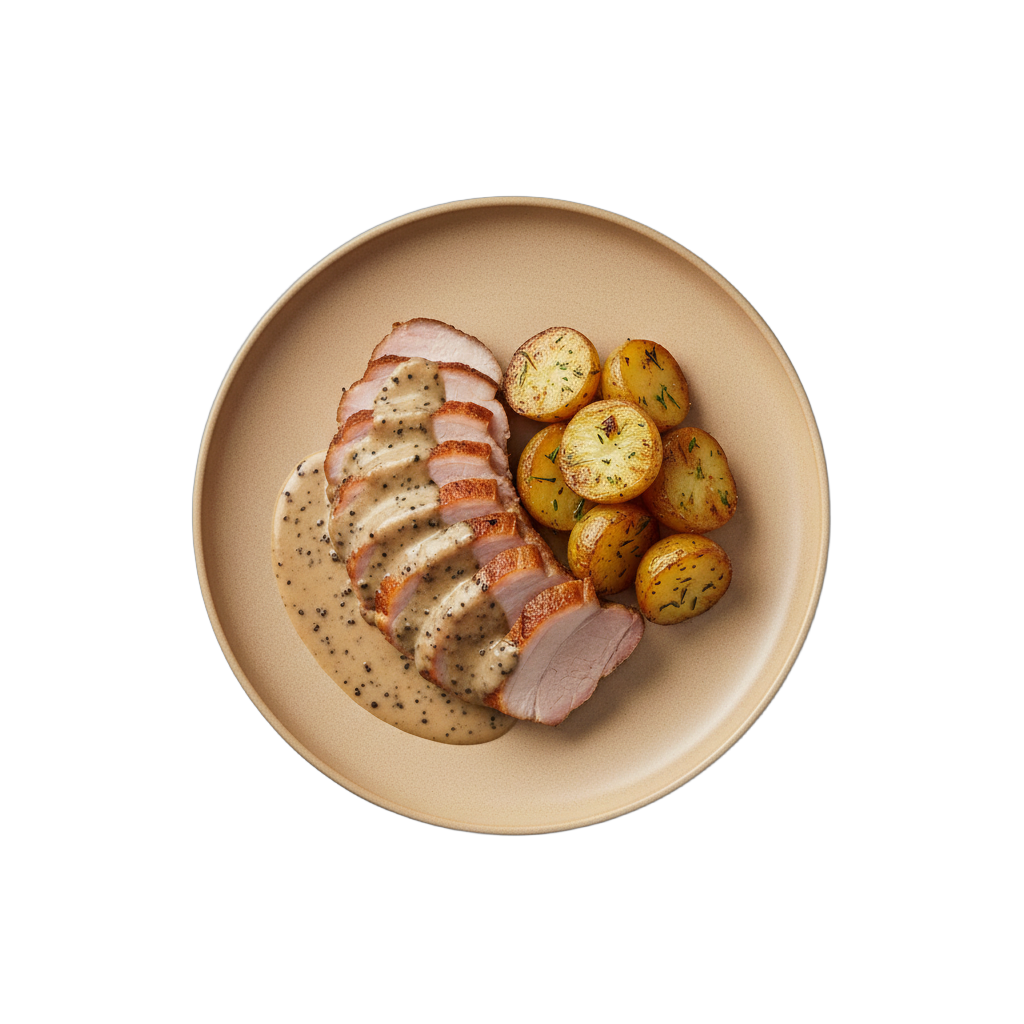
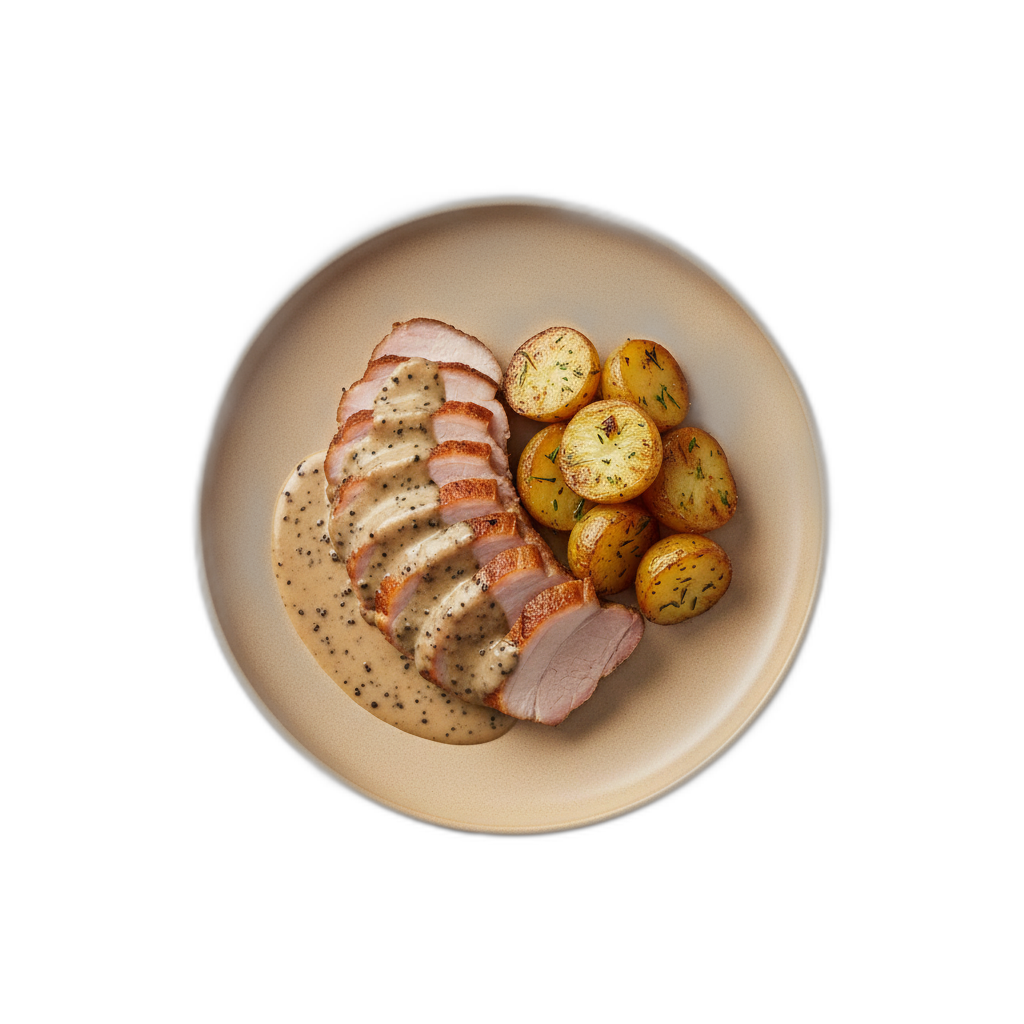
Switch to V3 image generation with beige plates and fix image slugs
- Update CANTEEN_IMAGE_SLUGS to match V3 filenames (eat_the_street, fresh4you, flow)
- Switch workflow and local script from V2 to V3 (--grey --force)
- Update review-images.js prompt to use beige plate + grey background style
- Add all V3-generated images (15 raw + 15 background-removed)
- Switch from next/image to img tag for instant day switching

diff --git a/generate-images-v3.js b/generate-images-v3.js
@@ -1,0 +1,202 @@
+#!/usr/bin/env node
+/**
+ * V3: OVERHEAD VIEW + TRANSPARENT BACKGROUND
+ * Most consistent approach - eliminates angle variation
+ */
+
+const fs = require('fs');
+const path = require('path');
+const { GoogleGenAI } = require('@google/genai');
+
+const GEMINI_API_KEY = process.env.GEMINI_API_KEY;
+if (!GEMINI_API_KEY) { console.error('❌ GEMINI_API_KEY required'); process.exit(1); }
+const ai = new GoogleGenAI({ apiKey: GEMINI_API_KEY });
+
+const DAY_ORDER = ['monday', 'tuesday', 'wednesday', 'thursday', 'friday'];
+
+/**
+ * OVERHEAD VIEW STRATEGY:
+ * - 90° top-down = most consistent angle across all AI generations
+ * - Transparent background = no post-processing needed
+ * - White plate with full rim visible = clean, professional look
+ */
+const OVERHEAD_TRANSPARENT_PROMPT = (dishName) =>
+`Professional overhead food photography of "${dishName}".
+
+STRICT TECHNICAL SPECIFICATIONS:
+━━━━━━━━━━━━━━━━━━━━━━━━━━━━━━━━━━━━━━━
+Camera & Composition:
+- Angle: Overhead shot, camera at 90° directly above plate
+- Framing: Plate perfectly centered, complete rim visible
+- Size: Food covers 60-70% of plate surface (realistic portion)
+- Format: Square 1:1 ratio, 1024x1024px
+
+Plate & Styling:
+- Plate: Round white ceramic dinner plate (10-11 inches)
+- Plating: Professional restaurant presentation
+- Lighting: Soft diffused overhead light, minimal shadows
+- Quality: Sharp, photorealistic, high detail
+
+Background & Format:
+- Background: COMPLETELY TRANSPARENT (alpha channel/no background)
+- Output: PNG with transparency
+- ONLY visible elements: white plate + food
+
+Strict Exclusions:
+- NO table surface or texture visible
+- NO utensils, napkins, garnishes outside plate
+- NO hands, people, or decorative elements
+- NO text, watermarks, labels
+- NO angled views or perspective
+
+Style: Minimalist Scandinavian food photography, clean and professional.`;
+
+/**
+ * GREY BACKGROUND FALLBACK (if transparent doesn't work well)
+ */
+const OVERHEAD_GREY_PROMPT = (dishName) =>
+`Professional overhead food photography of "${dishName}".
+
+STRICT TECHNICAL SPECIFICATIONS:
+━━━━━━━━━━━━━━━━━━━━━━━━━━━━━━━━━━━━━━━
+Camera & Composition:
+- Angle: Overhead shot, camera at 90° directly above plate
+- Framing: Plate perfectly centered, complete rim visible
+- Size: Food covers 60-70% of plate surface
+- Format: Square 1:1 ratio, 1024x1024px
+
+Plate & Styling:
+- Plate: Round BEIGE/CREAM ceramic dinner plate (warm off-white color #F5E6D3)
+- CRITICAL: Plate MUST be beige/cream colored, NOT pure white
+- Plating: Professional restaurant presentation
+- Lighting: Soft diffused overhead light, minimal shadows
+- Quality: Sharp, photorealistic, high detail
+
+Background:
+- Background: Solid neutral grey (#C0C0C0) seamless backdrop
+- MUST be uniform grey color (no gradients, textures, shadows)
+- ONLY visible elements: grey background + beige/cream plate + food
+
+Strict Exclusions:
+- NO white plates (use beige/cream only)
+- NO table surface or wood grain
+- NO utensils, napkins, garnishes outside plate
+- NO hands, people, or decorative elements
+- NO text, watermarks, labels
+- NO angled views or perspective
+
+Style: Minimalist Scandinavian food photography, clean and professional.`;
+
+async function generateImage(dishName, canteenName, style = 'transparent') {
+    const prompt = style === 'grey'
+        ? OVERHEAD_GREY_PROMPT(dishName)
+        : OVERHEAD_TRANSPARENT_PROMPT(dishName);
+
+    const displayName = dishName.substring(0, 45);
+    console.log(`  📸 ${canteenName}: ${displayName}...`);
+
+    try {
+        const response = await ai.models.generateContent({
+            model: 'gemini-2.5-flash-image',
+            contents: prompt,
+            config: {
+                responseModalities: ['Text', 'Image'],
+            },
+        });
+
+        for (const part of response.candidates[0].content.parts) {
+            if (part.inlineData) {
+                return Buffer.from(part.inlineData.data, 'base64');
+            }
+        }
+        return null;
+    } catch (error) {
+        console.error(`  ❌ Error: ${error.message}`);
+        return null;
+    }
+}
+
+async function main() {
+    const args = process.argv.slice(2);
+    const style = args.includes('--grey') ? 'grey' : 'transparent';
+    const forceRegen = args.includes('--force');
+
+    console.log('╔══════════════════════════════════════════════════════════╗');
+    console.log('║  IMAGE GENERATION V3 - OVERHEAD VIEW APPROACH           ║');
+    console.log('╚══════════════════════════════════════════════════════════╝');
+    console.log(`\n📐 View: Overhead (90° top-down)`);
+    console.log(`🎨 Background: ${style === 'grey' ? 'Grey (remove later)' : 'Transparent (direct)'}`);
+    console.log(`🔄 Force regenerate: ${forceRegen ? 'YES' : 'NO'}\n`);
+    console.log('═'.repeat(60));
+
+    const menuData = JSON.parse(fs.readFileSync(path.join(__dirname, 'public', 'menu.json'), 'utf8'));
+    const imagesDir = path.join(__dirname, 'public', 'images');
+
+    let generated = 0;
+    let skipped = 0;
+    let failed = 0;
+
+    for (const day of DAY_ORDER) {
+        const dayDir = path.join(imagesDir, day);
+        if (!fs.existsSync(dayDir)) fs.mkdirSync(dayDir, { recursive: true });
+
+        console.log(`\n📅 ${day.toUpperCase()}`);
+        console.log('─'.repeat(60));
+
+        for (const [canteenName, canteen] of Object.entries(menuData.canteens)) {
+            const dayEntry = canteen.menu.find(d => d.day.toLowerCase() === day);
+            if (!dayEntry) continue;
+
+            const items = dayEntry.en?.items || dayEntry.no?.items;
+            if (!items) continue;
+
+            const mainDish = items.find(i => i.isMain);
+            if (!mainDish) continue;
+
+            const filename = canteenName.toLowerCase().replace(/\s+/g, '_') + '.png';
+            const filepath = path.join(dayDir, filename);
+
+            if (fs.existsSync(filepath) && !forceRegen) {
+                console.log(`  ⏭  ${canteenName}: Already exists (use --force to regenerate)`);
+                skipped++;
+                continue;
+            }
+
+            const buffer = await generateImage(mainDish.dish, canteenName, style);
+
+            if (buffer) {
+                fs.writeFileSync(filepath, buffer);
+                const sizeKB = Math.round(buffer.length / 1024);
+                console.log(`  ✅ ${canteenName}: Saved (${sizeKB}KB)`);
+                generated++;
+            } else {
+                console.log(`  ❌ ${canteenName}: Failed to generate`);
+                failed++;
+            }
+
+            // Rate limiting (avoid API throttling)
+            await new Promise(r => setTimeout(r, 1500));
+        }
+    }
+
+    console.log('\n' + '═'.repeat(60));
+    console.log('📊 GENERATION SUMMARY');
+    console.log('═'.repeat(60));
+    console.log(`✅ Generated:  ${generated} images`);
+    console.log(`⏭  Skipped:    ${skipped} images`);
+    console.log(`❌ Failed:     ${failed} images`);
+    console.log('═'.repeat(60));
+
+    if (style === 'grey') {
+        console.log('\n💡 NEXT STEP:');
+        console.log('   Run: node remove-grey-bg.js');
+        console.log('   To remove grey backgrounds and create transparent versions');
+    } else {
+        console.log('\n✨ Images should already have transparent backgrounds');
+        console.log('   Location: public/images/[day]/[canteen].png');
+        console.log('\n💡 TIP: If backgrounds aren\'t transparent, regenerate with:');
+        console.log('   node generate-images-v3.js --grey --force');
+    }
+}
+
+main().catch(console.error);

diff --git a/review-images.js b/review-images.js
@@ -18,17 +18,36 @@ const DAY_ORDER = ['monday', 'tuesday', 'wednesday', 'thursday', 'friday'];
 const MAX_RETRIES = 2;
 
 const GENERATION_PROMPT = (dishName) =>
-`Professional food photography of "${dishName}", top-down overhead shot on a clean white ceramic plate, soft natural lighting, shallow depth of field, restaurant quality presentation, minimalist Scandinavian style, no text or labels, photorealistic.
+`Professional overhead food photography of "${dishName}".
 
-CRITICAL REQUIREMENTS:
-- Camera: Top-down overhead shot looking straight down at the plate
-- MUST SHOW: Complete round plate fully visible with generous margin around all edges
-- Plate color: Clean white or light ceramic plate
-- Food positioning: Centered on plate, realistic portions
-- Background: Solid light gray (#E8E8E8) seamless backdrop
-- Lighting: Natural soft lighting, subtle shadows
-- NO cropped plates, NO angled shots, entire rim must be visible
-- Style: Restaurant menu photography, appetizing and realistic`;
+STRICT TECHNICAL SPECIFICATIONS:
+Camera & Composition:
+- Angle: Overhead shot, camera at 90° directly above plate
+- Framing: Plate perfectly centered, complete rim visible
+- Size: Food covers 60-70% of plate surface
+- Format: Square 1:1 ratio, 1024x1024px
+
+Plate & Styling:
+- Plate: Round BEIGE/CREAM ceramic dinner plate (warm off-white color #F5E6D3)
+- CRITICAL: Plate MUST be beige/cream colored, NOT pure white
+- Plating: Professional restaurant presentation
+- Lighting: Soft diffused overhead light, minimal shadows
+- Quality: Sharp, photorealistic, high detail
+
+Background:
+- Background: Solid neutral grey (#C0C0C0) seamless backdrop
+- MUST be uniform grey color (no gradients, textures, shadows)
+- ONLY visible elements: grey background + beige/cream plate + food
+
+Strict Exclusions:
+- NO white plates (use beige/cream only)
+- NO table surface or wood grain
+- NO utensils, napkins, garnishes outside plate
+- NO hands, people, or decorative elements
+- NO text, watermarks, labels
+- NO angled views or perspective
+
+Style: Minimalist Scandinavian food photography, clean and professional.`;
 
 async function reviewImage(imagePath, dishName) {
     const imageData = fs.readFileSync(imagePath);

diff --git a/src/app/page.tsx b/src/app/page.tsx
@@ -1,7 +1,6 @@
 "use client";
 
 import { useState, useEffect } from "react";
-import Image from "next/image";
 
 // Types
 interface Allergen { id: string; name: string; }
@@ -27,7 +26,7 @@ const ALLERGEN_COLORS: Record<string, string> = {
 
 const CANTEEN_ORDER = ["Eat the street", "Fresh4you", "Flow"];
 const CANTEEN_IMAGE_SLUGS: Record<string, string> = {
-  "Eat the street": "the_hub", "Fresh4you": "telenor_expo", "Flow": "bygg_b"
+  "Eat the street": "eat_the_street", "Fresh4you": "fresh4you", "Flow": "flow"
 };
 
 export default function Home() {
@@ -153,7 +152,7 @@ export default function Home() {
               {isFeatured && <div className="popular-badge">Popular</div>}
               <div className="card-image-wrapper" onClick={e => { e.stopPropagation(); mainDish && setLightbox({ isOpen: true, imageSrc: imagePath, dishName: mainDish.dish, canteenName }); }}>
                 <div className="card-image-circle">
-                  <Image src={imagePath} alt={mainDish?.dish || "Matrett"} fill sizes="280px" className="food-image" priority unoptimized />
+                  <img src={imagePath} alt={mainDish?.dish || "Matrett"} className="food-image" />
                 </div>
                 <span className="click-hint">{lang === "no" ? "Klikk for større" : "Click to enlarge"}</span>
               </div>
@@ -214,7 +213,7 @@ export default function Home() {
           <button className="lightbox-close" onClick={() => setLightbox(prev => ({ ...prev, isOpen: false }))}>×</button>
           <div className="lightbox-content" onClick={e => e.stopPropagation()}>
             <div className="lightbox-image-container">
-              <Image src={lightbox.imageSrc} alt={lightbox.dishName} width={800} height={600} className="lightbox-image" priority />
+              <img src={lightbox.imageSrc} alt={lightbox.dishName} className="lightbox-image" />
             </div>
             <h2 className="lightbox-dish-name">{lightbox.dishName}</h2>
             <p className="lightbox-canteen">{lightbox.canteenName}</p>
